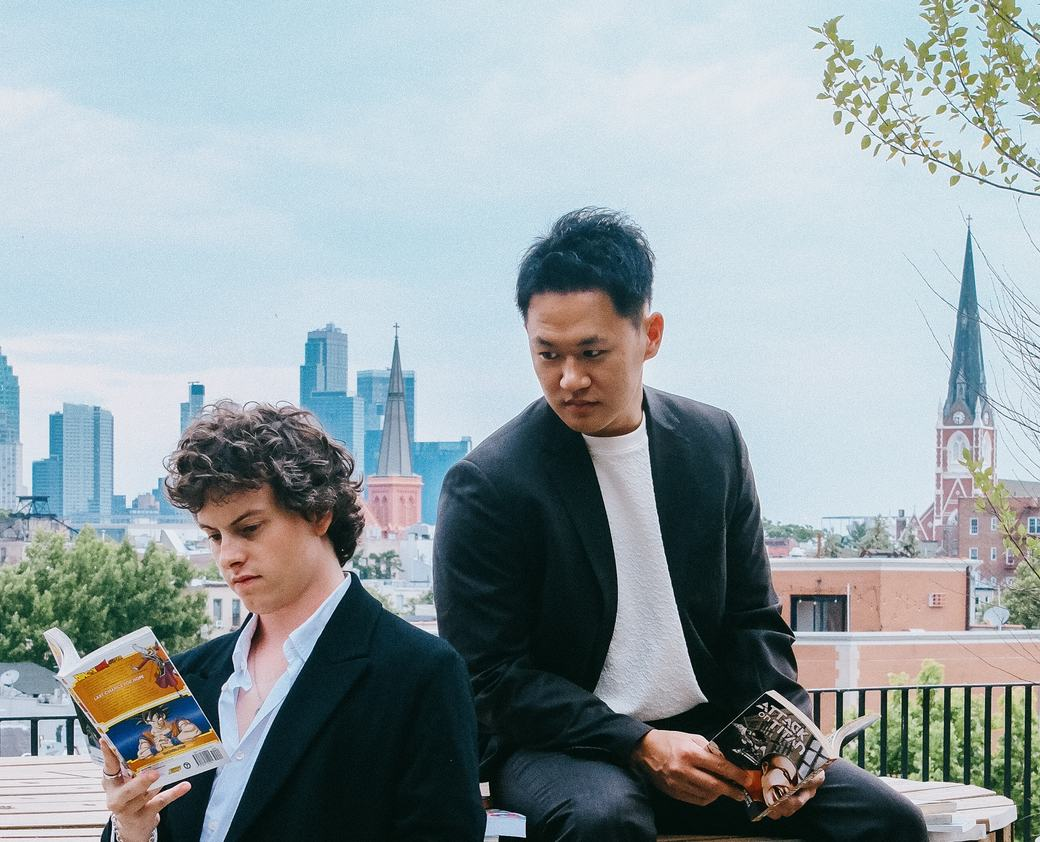
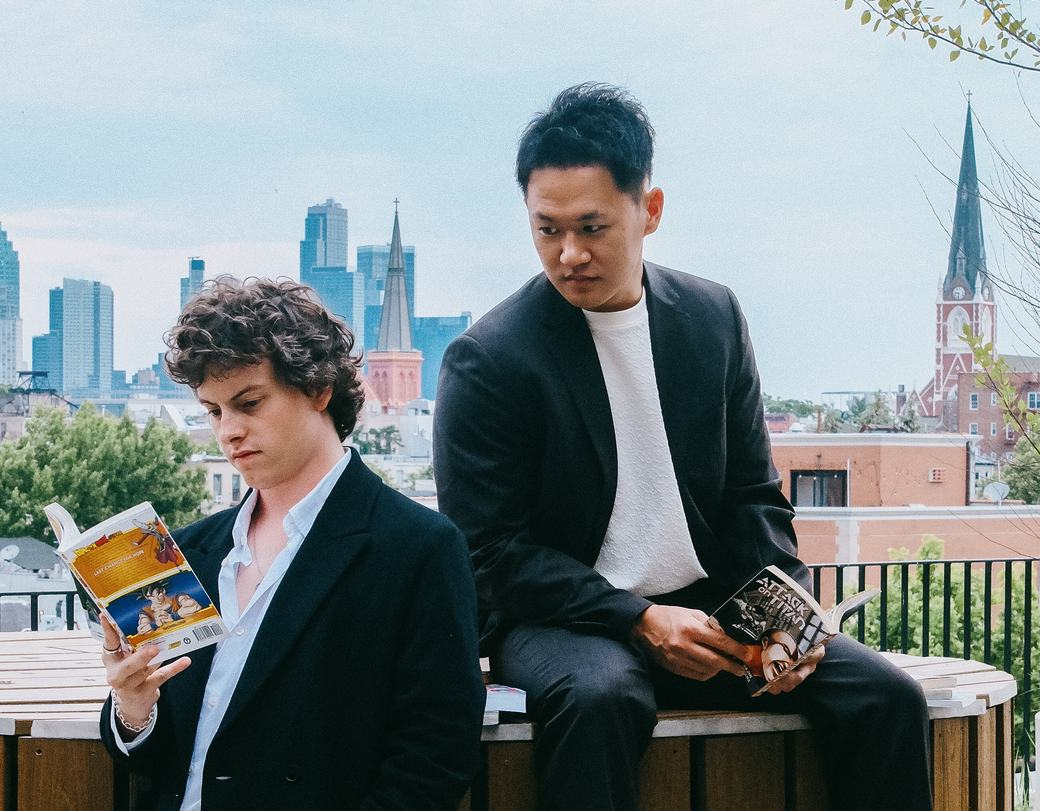
Add files via upload

diff --git a/styles.css b/styles.css
@@ -198,7 +198,8 @@ main { flex: 1; }
     aspect-ratio: auto;
     height: clamp(420px, 60vh, 560px);
   }
-  .landing__media img { object-position: center 26%; }
+  /* anchor to the top of the frame so the crop never clips the head */
+  .landing__media img { object-position: center top; }
 }
 
 .landing__copy { display: flex; flex-direction: column; gap: var(--space-4); }
@@ -364,7 +365,7 @@ main { flex: 1; }
     position: sticky;
     top: calc(var(--space-8) + 1rem);
   }
-  .bio__media img { object-position: center 22%; }
+  .bio__media img { object-position: center top; }
 }
 
 .bio__body { display: flex; flex-direction: column; gap: var(--space-5); }

diff --git a/bio.html b/bio.html
@@ -73,7 +73,7 @@
               sizes="(min-width: 900px) 40vw, 100vw"
               alt="Frankie Seratch with his IP Bay co-founder on a Brooklyn rooftop"
               width="1040"
-              height="842"
+              height="811"
               loading="lazy"
             />
             <figcaption>IP Bay · Brooklyn</figcaption>
